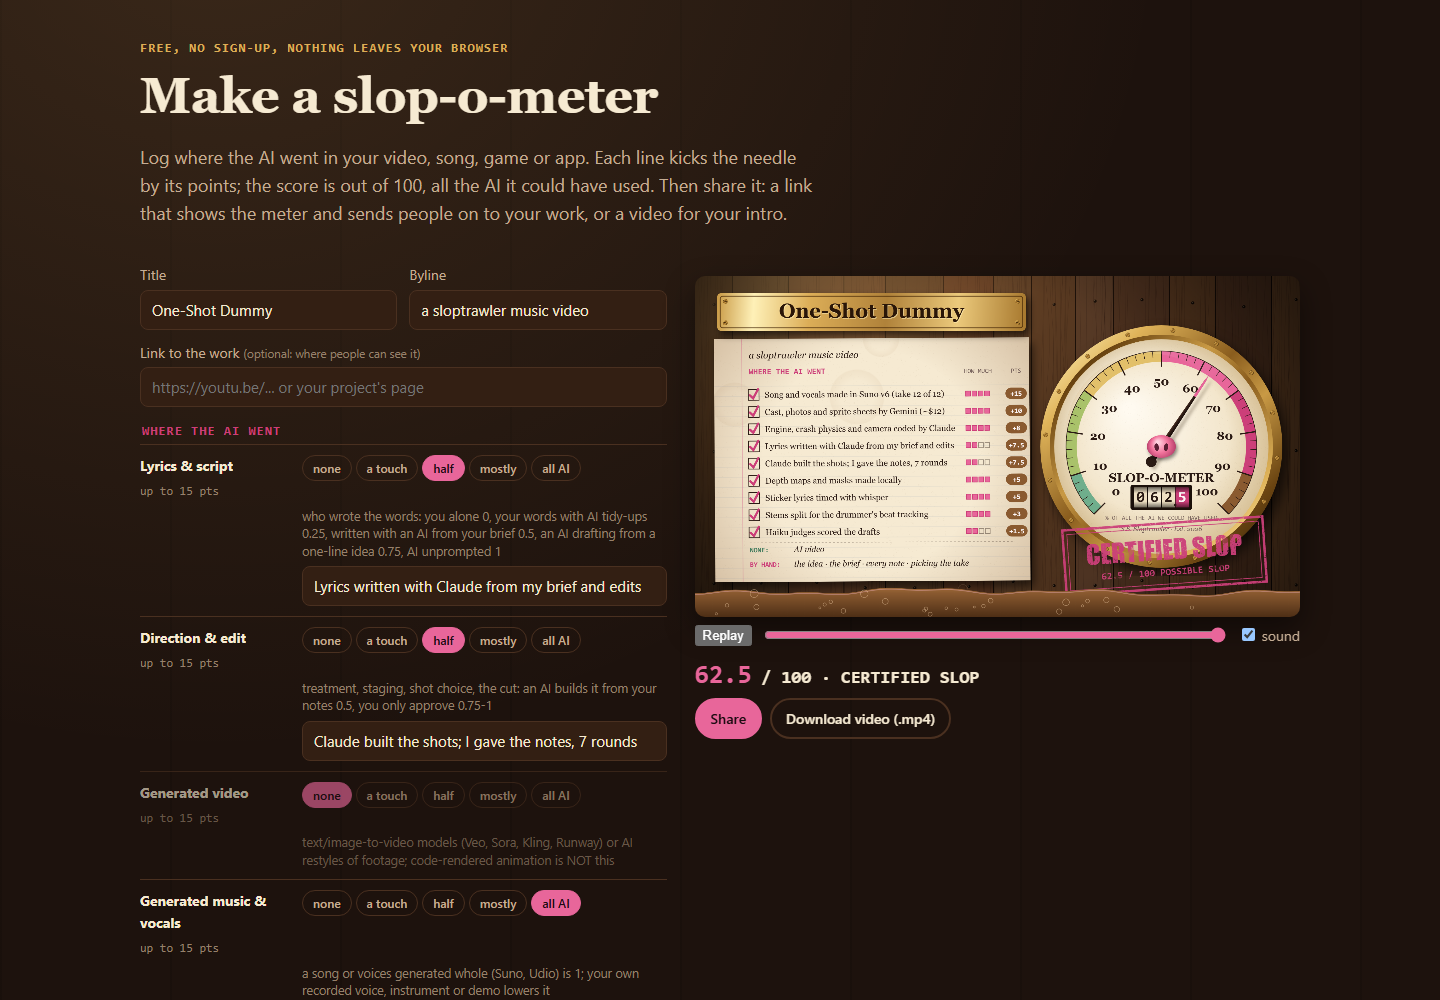
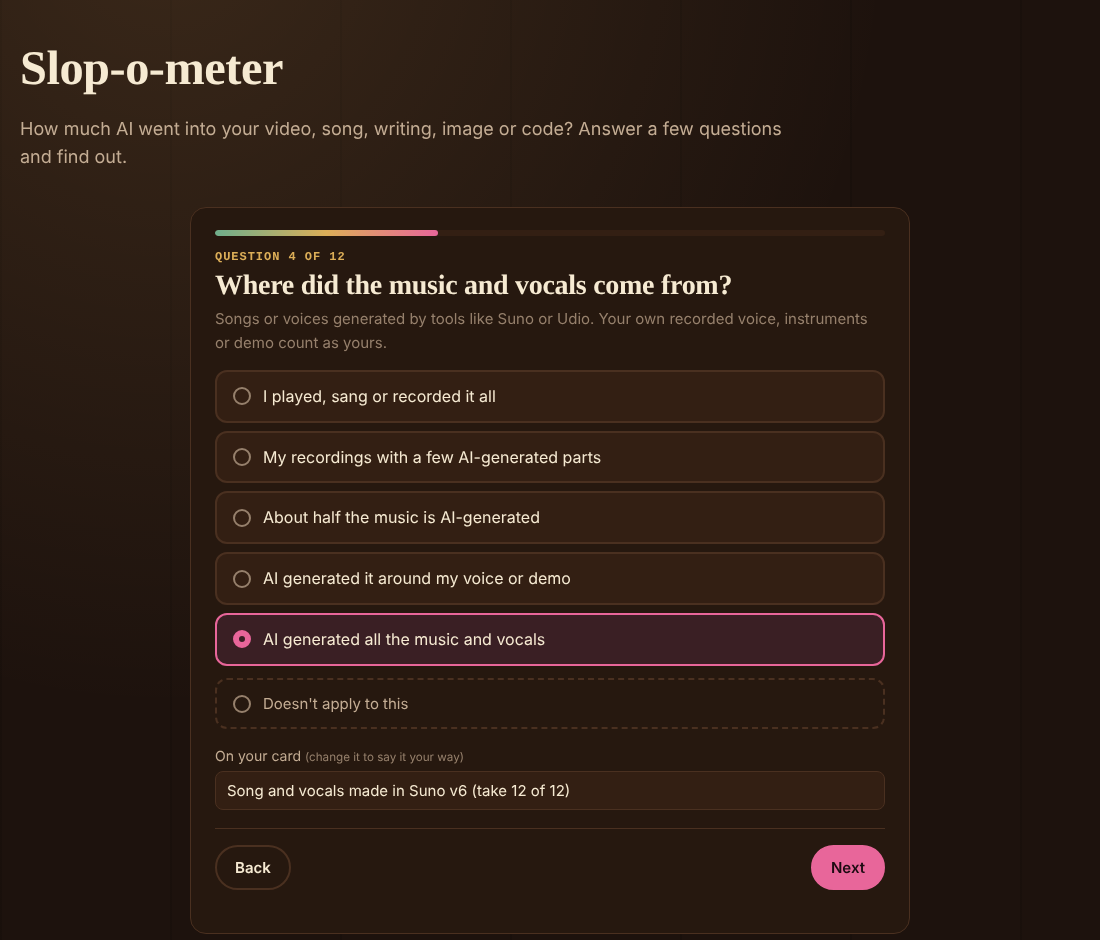
README and its screenshot script for the step-by-step generator
shoot.mjs opened an old-style share link and waited for the banner and the
autoplay the generator no longer has. It now loads the example log as a
saved draft and photographs the music question, answered from it (the
finished card is already card-final.png). generator.png is remade with it;
the README describes the new flow.

Claude-Session: https://claude.ai/code/session_01Nq3X8qvpSSVs3G8Xm8EXQf

diff --git a/README.md b/README.md
@@ -145,8 +145,9 @@ Then ask Claude Code for "a slop-o-meter for this video". The card ends on its v
 
 <p align="center"><img src="assets/slop-o-meter/card-final.png" alt="The final frame: nine logged AI uses with their points, NONE: AI video, BY HAND: the idea, the brief, every note, picking the take, and the gauge at 62.5 stamped CERTIFIED SLOP" width="860"></p>
 
-**The web generator** is in `skills/slop-o-meter/generator`: the same card made in the browser, with a share link,
-.mp4, .html, .png and .webm downloads. It's the code behind [slopscore.org/slop-o-meter](https://slopscore.org/slop-o-meter/),
+**The web generator** is in `skills/slop-o-meter/generator`: the same card made in the browser. It asks what you're
+checking (a video, music, writing, a still image or code), then one plain question at a time, and reveals the score at
+the end, with a share link and .mp4, .html, .png and .webm downloads. It's the code behind [slopscore.org/slop-o-meter](https://slopscore.org/slop-o-meter/),
 which builds from this folder. To run it locally:
 
 ```bash
@@ -155,7 +156,7 @@ cd AIVCR/skills/slop-o-meter && node generator/build.mjs && python -m http.serve
 
 Open http://localhost:5199/generator/. Edit `generator/form.mjs` or `rubric.json`, then rebuild `generator/index.html`.
 
-<p align="center"><img src="assets/slop-o-meter/generator.png" alt="The web generator: each category has none / a touch / half / mostly / all AI buttons and a line of text; the live card beside the form shows 62.5, Certified Slop, with Share and Download video buttons" width="860"></p>
+<p align="center"><img src="assets/slop-o-meter/generator.png" alt="The web generator on question 4 of 12, Where did the music and vocals come from?, with five answers from I played, sang or recorded it all to AI generated all the music and vocals (picked), a Doesn't apply option, and the line that goes on the card" width="860"></p>
 
 The pictures above come from `bash demo/slop-o-meter/make.sh` (it renders the example log, makes the GIF and takes the
 screenshot), so they can be remade after the card or the page changes.
